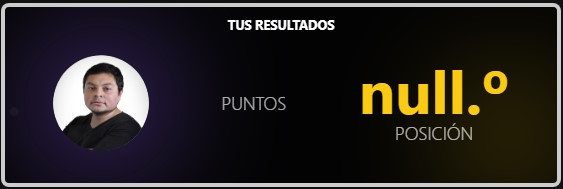
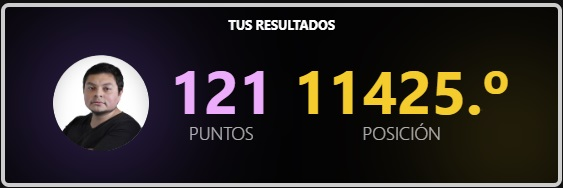
✅ Solution Challenge 01 - 2022

diff --git a/2022/challenge-01/challenge01.test.js b/2022/challenge-01/challenge01.test.js
@@ -1,4 +1,45 @@
+const wrapping = require('./challenge01');
 
+describe("Reto #1: ¡Automatizando envolver regalos de navidad&excl;", () => {
+  it("Test #01: return type", () => {
+    const gifts = ['cat', 'game', 'socks'];
+    expect(typeof wrapping(gifts)).toEqual("object");
+  });
+
+  it("Test #02: wrapping(['cat', 'game', 'socks'])", () => {
+    const gifts = ['cat', 'game', 'socks'];
+    const result = wrapping(gifts);
+    const expected = [
+      "*****\n*cat*\n*****",
+      "******\n*game*\n******",
+      "*******\n*socks*\n*******"
+    ]
+    expect(result).toEqual(expected);
+  });
+
+  it("Test #03: wrapping(['midu'])", () => {
+    const result = wrapping(["midu"]);
+    const expected = [
+      "******\n*midu*\n******"
+    ];
+    expect(result).toEqual(expected);
+  });
+
+  it("Test #04: wrapping(['a'])", () => {
+    const result = wrapping(["a"]);
+    const expected = [
+      "***\n*a*\n***"
+    ];
+    expect(result).toEqual(expected);
+  });
+
+  it("Test #05: Test: wrapping an empty array should return an empty array", () => {
+    const result = wrapping([]);
+    const expected = [];
+    expect(result).toEqual(expected);
+  });
+
+});
 
 
 /* 

diff --git a/2022/challenge-01/challenge01.js b/2022/challenge-01/challenge01.js
@@ -1,5 +1,8 @@
 function wrapping(gifts) {
-    return []
+    const ENVELOPE = '*'
+    return gifts.map((gift) => {
+        let wrapper = ENVELOPE.repeat(gift.length + 2);
+        return `${wrapper}\n*${gift}*\n${wrapper}`;
+    });
 }
-
 module.exports = wrapping;

diff --git a/README.md b/README.md
@@ -50,14 +50,20 @@ The programming challenges:
 
 ## 🎯 Challenges 2022
 
+<div align="center">
+    <img alt="position" src="./assets/points_2022.jpg">
+</div>
+
 The programming challenges:
 
-|  #  |                               Challenge                            | Difficulty |                  Solution                  |
-| :-: | :----------------------------------------------------------------: | :--------: | :----------------------------------------: |
-| 01  | [¡Automatizando envolver regalos de navidad!](./2022/challenge-01) | Easy       | [Solution](./2022/challenge-01/challenge01.js) |
-| 02  | [Nadie quiere hacer horas extra](./2022/challenge-02) | Easy       | [Solution](./2022/challenge-02/challenge02.js) |
-| 03  | [¿Cuántas cajas de regalos puede llevar Papá Noel?](./2022/challenge-03) | Easy       | [Solution](./2022/challenge-03/challenge03.js) |
-| 04  | [Una caja dentro de otra caja y otra...](./2022/challenge-04) | Easy       | [Solution](./2022/challenge-04/challenge04.js) |
+|  #  |                               Challenge                            | Difficulty |                  Solution                  |   Points   |
+| :-: | :----------------------------------------------------------------: | :--------: | :----------------------------------------: | :--------: |
+| 01  | [¡Automatizando envolver regalos de navidad!](./2022/challenge-01) | Easy       | [Solution](./2022/challenge-01/challenge01.js) | 121 |
+| 02  | [Nadie quiere hacer horas extra](./2022/challenge-02) | Easy       | [Solution](./2022/challenge-02/challenge02.js) | PENDING |
+| 03  | [¿Cuántas cajas de regalos puede llevar Papá Noel?](./2022/challenge-03) | Easy       | [Solution](./2022/challenge-03/challenge03.js) | PENDING |
+| 04  | [Una caja dentro de otra caja y otra...](./2022/challenge-04) | Easy       | [Solution](./2022/challenge-04/challenge04.js) | PENDING |
+
+`*` For refactoring the code
 
 ## 🎯 Challenges 2021
 
@@ -67,6 +73,8 @@ The programming challenges:
 | :-: | :--------------------------------------------------------------------: | :--------: | :----------------------------------------: |
 | 01  | [Contando ovejas para domir!](./2021/challenge-01)                     | Easy       | [Solution](./2021/challenge-01/challenge01.js) |
 | 02  | [¡Ayuda al elfo a listar los regalos!](./2021/challenge-02)                     | Easy       | [Solution](./2021/challenge-02/challenge02.js) |
+
+`*` For refactoring the code
 
 ## TODO
 

diff --git a/2022/challenge-01/README.md b/2022/challenge-01/README.md
@@ -1,27 +1,37 @@
-# Reto #1: ¡Automatizando envolver regalos de navidad!
+# Reto #1: ¡Automatizando envolver regalos de navidad&excl;
 
-Este año los elfos han comprado una máquina que envuelve regalos. Pero… ¡no viene programada! Necesitamos crear un algoritmo que le ayude en la tarea.
+$${\color{lightgreen}Fácil}$$
 
-A la máquina se le pasa un array con los regalos. Cada regalo es un string. Necesitamos que la máquina envuelva cada regalo en papel de regalo y lo coloque en un array de regalos envueltos.
+Este año los elfos han comprado una máquina que envuelve regalos. Pero… ¡no viene
+programada! Necesitamos crear un algoritmo que le ayude en la tarea.
 
-El papel de regalo es el símbolo * y para envolver un regalo se coloca el símbolo * de forma que rodee totalmente al string por todos los lados. Por ejemplo:
+A la máquina se le pasa un array con los regalos. Cada regalo es un string.
+Necesitamos que la máquina envuelva cada regalo en papel de regalo y lo coloque
+en un array de regalos envueltos.
+
+El papel de regalo es el símbolo `*` y para envolver un regalo se coloca el símbolo
+`*` de forma que rodee totalmente al string por todos los lados. Por ejemplo:
+
+```javascript
 
 const gifts = ['cat', 'game', 'socks']
 const wrapped = wrapping(gifts)
 
-```javascript
 console.log(wrapped)
 /* [
   "*****\n*cat*\n*****",
   "******\n*game*\n******",
   "*******\n*socks*\n*******"
 ] */
+
 ```
 
-Como ves, el papel de regalo envuelve el string. Por arriba y por abajo, para no dejar ningún hueco, las esquinas también están cubiertas por el papel de regalo.
+Como ves, el papel de regalo envuelve el string. Por arriba y por abajo, para no
+dejar ningún hueco, las esquinas también están cubiertas por el papel de regalo.
 
-Nota: El carácter \n representa un salto de línea.
+**Nota**: El carácter \n representa un salto de línea.
 
-¡Ojo! Asegúrate que pones el número correcto de * para envolver completamente el string. Pero no demasiados. Sólo los necesarios para cubrir el string.
+**¡Ojo!** Asegúrate que pones el número correcto de `*` para envolver completamente
+el string. Pero no demasiados. Sólo los necesarios para cubrir el string.
 
-Ah, y no modifiques (mutes) el array original.
+Ah, **y no modifiques (mutes) el array original.**
